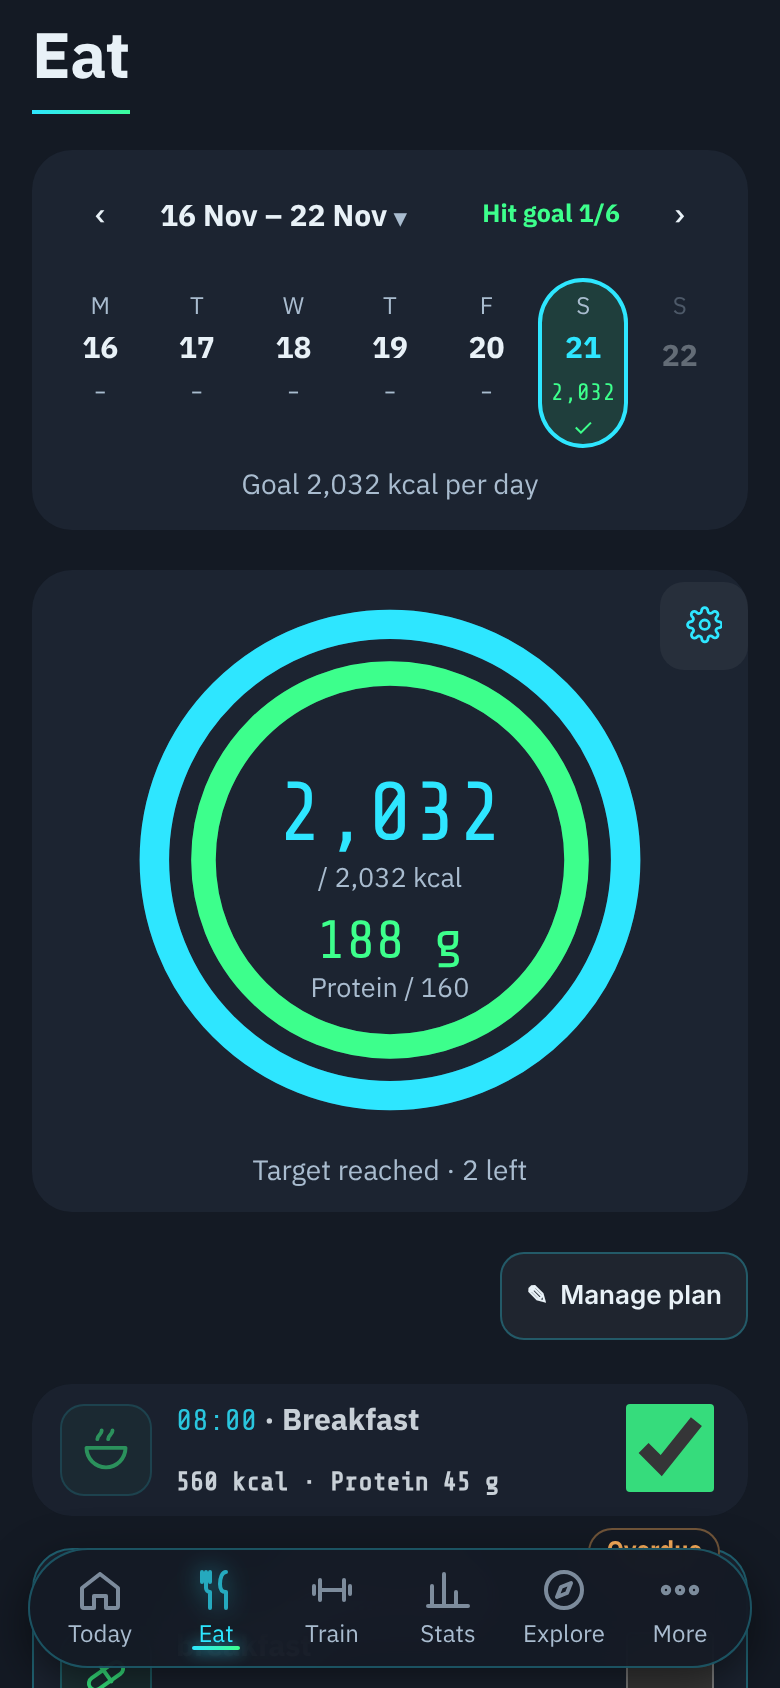
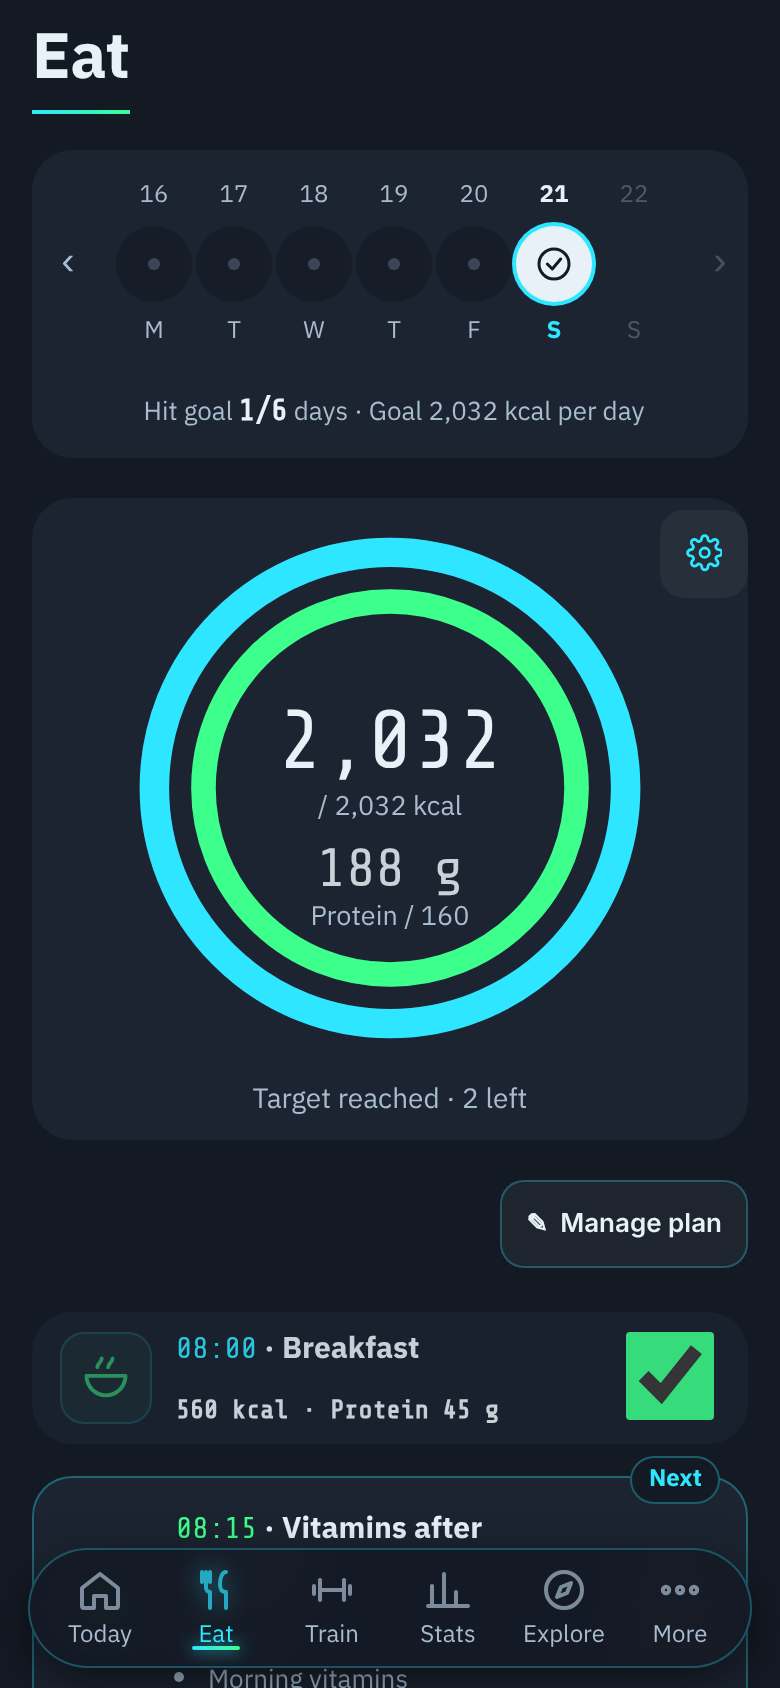
Eat: round week strip like Today, calm ring numbers, neutral not-ticked flag (#142)
* docs: Today critique snapshot + redesign intent

Claude-Session: https://claude.ai/code/session_01TA1QFnqgBxBRFsiXemJ9Lg

* chore: ignore impeccable live-server state

Claude-Session: https://claude.ai/code/session_01TA1QFnqgBxBRFsiXemJ9Lg

* Today: plan first, one start button, inline meal tick, folded recovery

Claude-Session: https://claude.ai/code/session_01TA1QFnqgBxBRFsiXemJ9Lg

* docs: merge PR automatically once npm test passes

Claude-Session: https://claude.ai/code/session_01TA1QFnqgBxBRFsiXemJ9Lg

* docs: no OK wait between steps

Claude-Session: https://claude.ai/code/session_01TA1QFnqgBxBRFsiXemJ9Lg

* Today: recovery-aware start, undo on meal tick, progress bars, direct start

Claude-Session: https://claude.ai/code/session_01TA1QFnqgBxBRFsiXemJ9Lg

* Today: rested program leads, rest-day exit, inline meal cancel, over-target bar

Claude-Session: https://claude.ai/code/session_01TA1QFnqgBxBRFsiXemJ9Lg

* Today: body weight + 7-day change + weigh-in in the body card

Claude-Session: https://claude.ai/code/session_01TA1QFnqgBxBRFsiXemJ9Lg

* Today: body card shows weight, muscle mass and body fat

Claude-Session: https://claude.ai/code/session_01TA1QFnqgBxBRFsiXemJ9Lg

* Today: weigh-in opens the full body-log sheet

Claude-Session: https://claude.ai/code/session_01TA1QFnqgBxBRFsiXemJ9Lg

* Today: headline matches suggestion, inline cancel, blank weigh-in, fits above tab bar

Claude-Session: https://claude.ai/code/session_01TA1QFnqgBxBRFsiXemJ9Lg
[…]

diff --git a/public/index.html b/public/index.html
@@ -8,11 +8,11 @@
 <meta name="apple-mobile-web-app-status-bar-style" content="black-translucent">
 <meta name="apple-mobile-web-app-title" content="WeightGram">
 <link rel="manifest" href="/manifest.webmanifest">
-<link rel="apple-touch-icon" href="/apple-touch-icon.png?v=138563">
+<link rel="apple-touch-icon" href="/apple-touch-icon.png?v=138564">
 <title>WeightGram</title>
 <link rel="stylesheet" href="https://fonts.googleapis.com/css2?family=IBM+Plex+Sans+Thai:wght@400;500;700&family=IBM+Plex+Mono:wght@400;500&family=Share+Tech+Mono&display=swap">
 <style>:root{padding-top:env(safe-area-inset-top,0px);padding-bottom:env(safe-area-inset-bottom,0px)}*{-webkit-tap-highlight-color:transparent}body{margin:0;font-size:var(--t-sm);font-family:system-ui,sans-serif}img{max-width:100%}[hidden]{display:none!important}</style>
-<link rel="stylesheet" href="/css/app.css?v=138563">
+<link rel="stylesheet" href="/css/app.css?v=138564">
 </head><body>
 
 <div class="wrap">
@@ -277,37 +277,37 @@
   </div>
 </div>
 
-<script src="/js/core.js?v=138563"></script>
-<script src="/js/food.js?v=138563"></script>
-<script src="/js/locations.js?v=138563"></script>
-<script src="/js/programs.js?v=138563"></script>
-<script src="/js/run.js?v=138563"></script>
-<script src="/js/workout.js?v=138563"></script>
-<script src="/js/exercise-edit.js?v=138563"></script>
-<script src="/js/edit-tx.js?v=138563"></script>
-<script src="/js/exercise-library.js?v=138563"></script>
-<script src="/js/program-manager.js?v=138563"></script>
-<script src="/js/hero.js?v=138563"></script>
-<script src="/js/rest-timer.js?v=138563"></script>
-<script src="/js/auth.js?v=138563"></script>
-<script src="/js/push.js?v=138563"></script>
-<script src="/js/data-io.js?v=138563"></script>
-<script src="/js/sync.js?v=138563"></script>
-<script src="/js/muscle-map.js?v=138563"></script>
-<script src="/js/progress.js?v=138563"></script>
-<script src="/js/history-chart.js?v=138563"></script>
-<script src="/js/stats-extra.js?v=138563"></script>
-<script src="/js/meal-plan.js?v=138563"></script>
-<script src="/js/undo.js?v=138563"></script>
-<script src="/js/home.js?v=138563"></script>
-<script src="/js/share.js?v=138563"></script>
-<script src="/js/explore.js?v=138563"></script>
-<script src="/js/onboarding.js?v=138563"></script>
-<script src="/js/account.js?v=138563"></script>
-<script src="/js/share-card.js?v=138563"></script>
-<script src="/js/number-pad.js?v=138563"></script>
-<script src="/js/refresh.js?v=138563"></script>
-<script src="/js/app.js?v=138563"></script>
+<script src="/js/core.js?v=138564"></script>
+<script src="/js/food.js?v=138564"></script>
+<script src="/js/locations.js?v=138564"></script>
+<script src="/js/programs.js?v=138564"></script>
+<script src="/js/run.js?v=138564"></script>
+<script src="/js/workout.js?v=138564"></script>
+<script src="/js/exercise-edit.js?v=138564"></script>
+<script src="/js/edit-tx.js?v=138564"></script>
+<script src="/js/exercise-library.js?v=138564"></script>
+<script src="/js/program-manager.js?v=138564"></script>
+<script src="/js/hero.js?v=138564"></script>
+<script src="/js/rest-timer.js?v=138564"></script>
+<script src="/js/auth.js?v=138564"></script>
+<script src="/js/push.js?v=138564"></script>
+<script src="/js/data-io.js?v=138564"></script>
+<script src="/js/sync.js?v=138564"></script>
+<script src="/js/muscle-map.js?v=138564"></script>
+<script src="/js/progress.js?v=138564"></script>
+<script src="/js/history-chart.js?v=138564"></script>
+<script src="/js/stats-extra.js?v=138564"></script>
+<script src="/js/meal-plan.js?v=138564"></script>
+<script src="/js/undo.js?v=138564"></script>
+<script src="/js/home.js?v=138564"></script>
+<script src="/js/share.js?v=138564"></script>
+<script src="/js/explore.js?v=138564"></script>
+<script src="/js/onboarding.js?v=138564"></script>
+<script src="/js/account.js?v=138564"></script>
+<script src="/js/share-card.js?v=138564"></script>
+<script src="/js/number-pad.js?v=138564"></script>
+<script src="/js/refresh.js?v=138564"></script>
+<script src="/js/app.js?v=138564"></script>
 
 <div id="rec-wrap" class="stack" style="gap:10px" hidden><div class="rcf-head"><div class="sec-t" data-i="การฟื้นตัวของกล้ามเนื้อ">การฟื้นตัวของกล้ามเนื้อ</div><button class="btn sm" id="rec-cfg">⚙ <span data-i="ตั้งเวลาฟื้นตัว">ตั้งเวลาฟื้นตัว</span></button></div><div class="card" id="rec-body"></div></div>
 </body></html>

diff --git a/public/js/home.js b/public/js/home.js
@@ -135,3 +135,17 @@ document.getElementById("gen-sheet")?.addEventListener("click",e=>{if(e.target.i
 document.addEventListener("click",e=>{if(!(e.target.closest&&e.target.closest("[data-backtoday]")))return;DAY=TODAY;try{draft.ex={};picked=false}catch(x){}renderAll()});
 // app.js (loaded after this file) defines show(): wrap it once everything is loaded
 window.addEventListener("DOMContentLoaded",()=>{if(typeof show!=="function")return;const _show=show;show=function(v){document.body.classList.toggle("on-home",v==="home"||!v);document.body.classList.toggle("on-food",v==="food");return _show.apply(this,arguments)}});
+
+// Eat uses the same round week strip as Today (same DAY link)
+renderEatCal=function(){const box=document.getElementById("eat-cal");if(!box)return;
+  const a=new Date(DAY+"T12:00:00"),off=(a.getDay()+6)%7,full=[...Array(7)].map((_,i)=>{const d=new Date(a);d.setDate(a.getDate()-off+i);return dkey(d)});
+  const ms=mealList().filter(m=>m.k>0),pc=ds=>{const k=dayKcal(ds);return K_GOAL?Math.min(1,k/K_GOAL):0};
+  const ring=ds=>{const k=dayKcal(ds);if(k>=K_GOAL&&K_GOAL)return licon("checkc");if(ds<TODAY&&!k)return `<span class="hq-rest" aria-hidden="true"></span>`;
+    return `${ds===TODAY?`<b class="hq-pc">${Math.round(pc(ds)*100)}</b>`:""}<svg viewBox="0 0 36 36" class="hq-arc"><circle cx="18" cy="18" r="15"/><circle cx="18" cy="18" r="15" class="on" style="stroke-dasharray:${Math.round(pc(ds)*94)} 94"/></svg>`};
+  const st=ds=>ds>TODAY?"fut":dayKcal(ds)>=K_GOAL&&K_GOAL?"ok":ds<TODAY&&!dayKcal(ds)?"miss":"now";
+  const past=full.filter(ds=>ds<TODAY||ds===TODAY&&dayKcal(ds)>0),hit=past.filter(ds=>dayKcal(ds)>=K_GOAL).length;
+  const nar=ds=>new Date(ds+"T12:00:00").toLocaleDateString(LOC(),{weekday:"narrow"});
+  box.innerHTML=`<div class="hq-week"><button class="hq-wnav" data-wk="-7" aria-label="${t("สัปดาห์ก่อน")}">‹</button>${full.map(ds=>`<button class="hq-day ${st(ds)}${ds===DAY?" sel":""}${ds===TODAY?" today":""}" data-cd="${ds}" ${ds>TODAY?"disabled":""} aria-label="${thDate(ds,{weekday:"long",day:"numeric",month:"short"})}${dayKcal(ds)?" · "+dayKcal(ds)+" kcal":""}"><small>${new Date(ds+"T12:00:00").getDate()}</small><span class="hq-dot">${ds>TODAY?"":ring(ds)}</span><small>${nar(ds)}</small></button>`).join("")}<button class="hq-wnav" data-wk="7" aria-label="${t("สัปดาห์ถัดไป")}" ${full[6]>=TODAY?"disabled":""}>›</button></div>
+    <small class="hq-streak">${t("ถึงเป้า")} <b class="hq-num">${hit}/${past.length}</b> ${t("วัน_s").replace(/_s$/,"")} · ${t("เป้า")} ${K_GOAL.toLocaleString()} kcal ${t("ต่อวัน")}</small>`;
+  box.querySelectorAll("[data-cd]").forEach(b=>b.addEventListener("click",()=>{const ds=b.dataset.cd;if(ds===DAY)return;DAY=ds;food[DAY]=food[DAY]||{done:{},tags:{}};try{draft.ex={};picked=false}catch(e){}renderAll()}));
+  box.querySelectorAll("[data-wk]").forEach(b=>b.addEventListener("click",()=>{const d=new Date(DAY+"T12:00:00");d.setDate(d.getDate()+ +b.dataset.wk);let k=dkey(d);if(k>TODAY)k=TODAY;DAY=k;food[DAY]=food[DAY]||{done:{},tags:{}};renderAll()}))};

diff --git a/public/js/food.js b/public/js/food.js
@@ -68,7 +68,7 @@ function renderFood(){renderFoodHist();
   meals.forEach(m=>{
     const done=!!fs().done[m.id],late=!done&&DAY===TODAY&&/^\d\d:\d\d$/.test(m.time)&&m.time<nowHM,isNext=m.id===nextId;
     const el=document.createElement("label");el.className="meal"+(done?" done mini":"")+(m.id.startsWith("x")?" extra":"")+(isNext?" next":"");
-    el.dataset.flag=isNext?(late?t("เลยเวลา"):t("มื้อถัดไป")):late?t("เลยเวลา"):"";if(late)el.classList.add("late");
+    el.dataset.flag=isNext?t("มื้อถัดไป"):late?t("ยังไม่ติ๊ก"):"";if(late&&!isNext)el.classList.add("late");
     el.innerHTML=`<span class="row-ic">${licon(m.vit?"pill":m.id.startsWith("x")?"run":"bowl")}</span><input type="checkbox" id="c-${m.id}" ${done?"checked":""}><div><div class="row-head"><span><span class="time">${t(m.time)}</span> · ${t(m.name)}</span><span class="macro">${m.vit||!m.k?t("วิตามิน_m").replace(/_m$/,""):`${m.k} kcal · ${t("โปรตีน")} ${m.p} g`}</span></div><ul>${m.items.map(i=>`<li>${t(i)}</li>`).join("")}</ul></div>`;
     el.querySelector("input").addEventListener("change",e=>{fs().done[m.id]=e.target.checked;save("mealcheck",food);renderFood()});
     box.appendChild(el);
@@ -134,4 +134,4 @@ function drawFoodRing(k,kt,p){const el=document.getElementById("food-ring");if(!
     <text x="110" y="150" text-anchor="middle" class="fr-mid">${p} g</text><text x="110" y="166" text-anchor="middle" class="fr-sm">${t("โปรตีน")} / ${P_TARGET}</text></svg>`}
 document.getElementById("day-gear")?.addEventListener("click",ev=>{const s=document.getElementById("day-type");s.hidden=!s.hidden;ev.currentTarget.setAttribute("aria-expanded",!s.hidden)});
 
-Object.assign(EN,{"วิตามิน_m":"Vitamins","กินไป":"ate","มื้อที่เหลือกินเบาลงได้":"go lighter on the rest","พรุ่งนี้กลับมาตามแผน":"back on plan tomorrow"});
+Object.assign(EN,{"ยังไม่ติ๊ก":"Not ticked yet","วิตามิน_m":"Vitamins","กินไป":"ate","มื้อที่เหลือกินเบาลงได้":"go lighter on the rest","พรุ่งนี้กลับมาตามแผน":"back on plan tomorrow"});

diff --git a/public/css/app.css b/public/css/app.css
@@ -1318,3 +1318,8 @@ body.on-food{background-image:none}
 #v-food #eat-cal .ec-d.ok{background:color-mix(in srgb,var(--green) 12%,transparent)!important}
 #v-food #eat-cal .btn{border:0!important;background:none!important;box-shadow:none!important}
 #v-food #eat-cal .ec-dow small,#v-food #eat-cal .ec-d small{color:var(--muted)}
+/* Eat: ring numbers calm (no neon), strip like Today, neutral late flag */
+#food-ring .fr-big{fill:var(--fg)!important}#food-ring .fr-mid{fill:var(--fg)!important;opacity:.85}
+#v-food #eat-cal{padding:10px 4px 12px!important}
+#v-food #eat-cal .hq-streak{display:block;text-align:center}
+#v-food .meal.late[data-flag]::after{background:#253245!important;color:var(--muted)!important;border-color:transparent!important}

diff --git a/docs/work/2026-11-21-eat-calm/plan.md b/docs/work/2026-11-21-eat-calm/plan.md
@@ -4,3 +4,8 @@
 - calm style like Today: flat #1c2431 cards, no glow on ring/cards/FAB, calendar tiles borderless, no grid background on Eat
 - over target: "เกินเป้า N kcal — มื้อที่เหลือกินเบาลงได้ / พรุ่งนี้กลับมาตามแผน"; one card copy "N kcal · โปรตีน N g", vitamins say "วิตามิน"
 - "แชร์แผนกิน" moved into the Manage plan sheet; that sheet moves focus in
+
+## Remaining 3
+- Eat calendar = Today round strip (✓ goal hit, faint dot = nothing logged, ring = % of kcal goal), summary "ถึงเป้า X/Y วัน · เป้า N kcal ต่อวัน"; smoke test reads .hq-day
+- ring numbers in the text colour (no neon cyan/green)
+- past-time meals: neutral grey "ยังไม่ติ๊ก" instead of orange "เลยเวลา"
